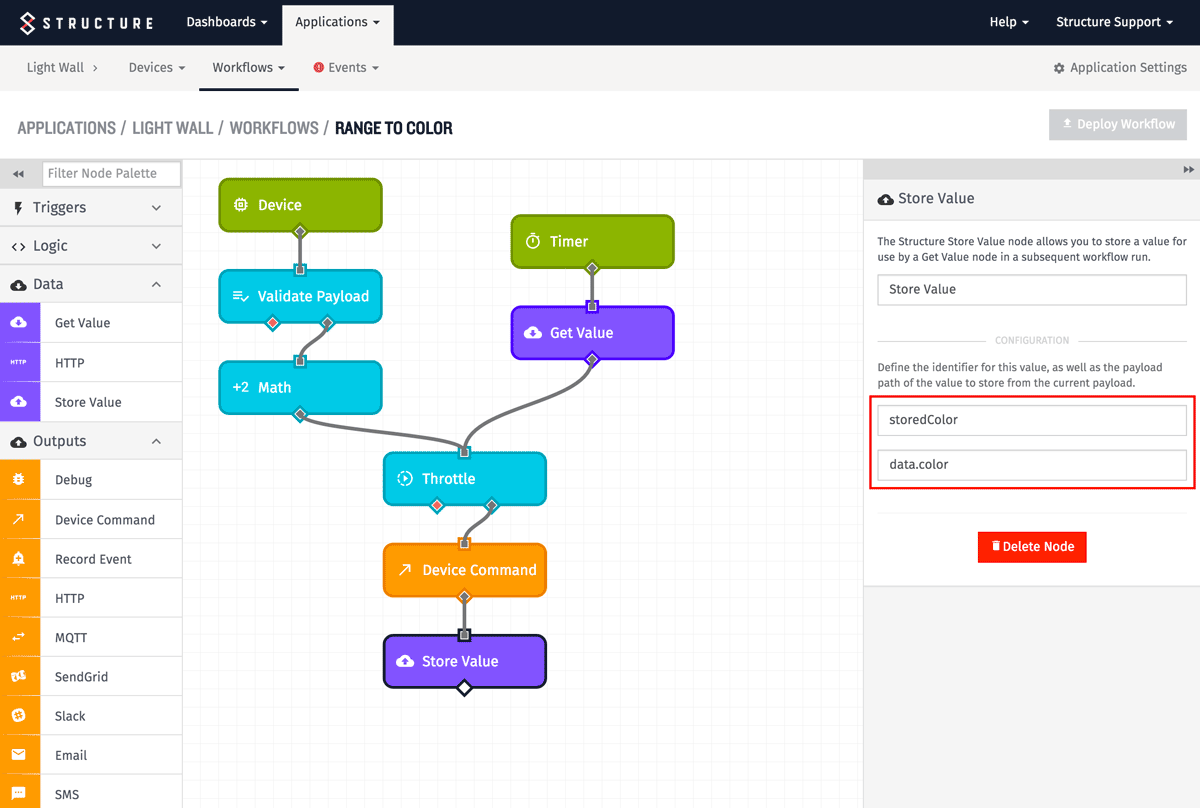
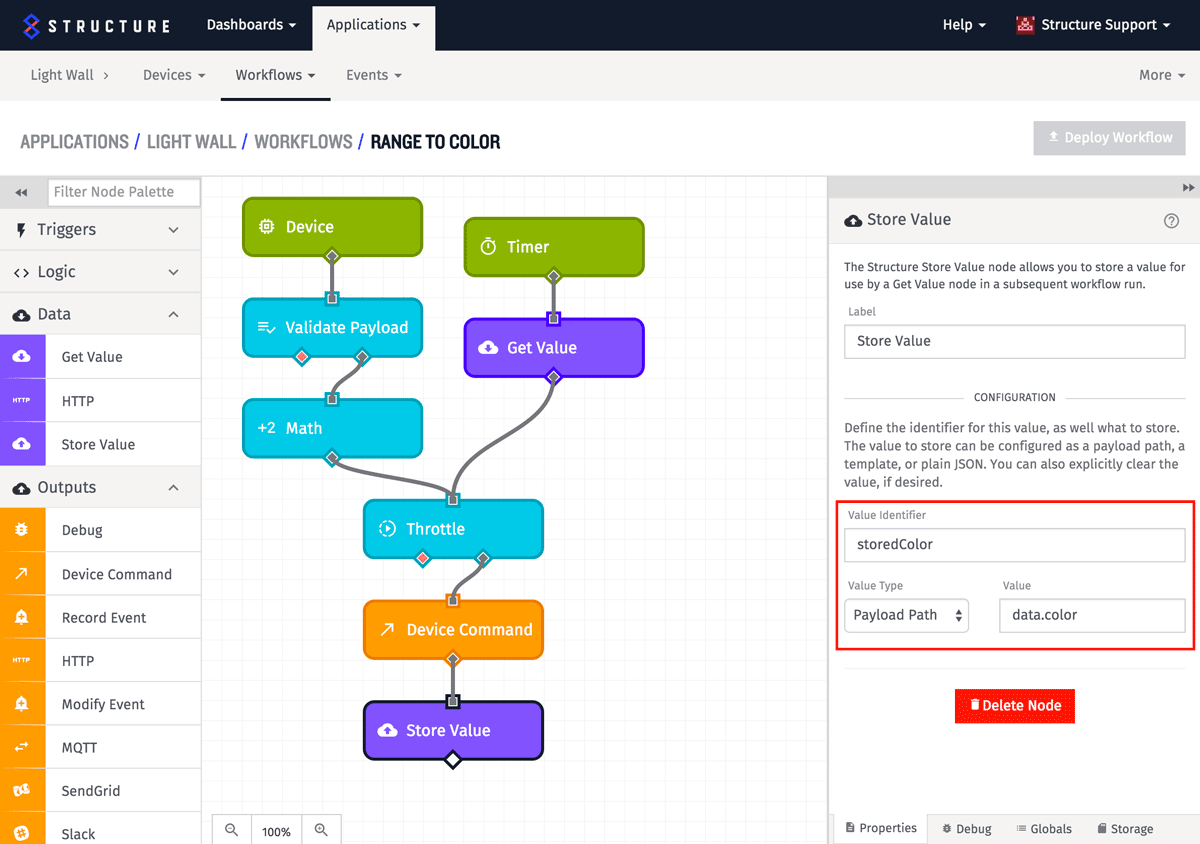
update with new store value abilities

diff --git a/docs/workflows/data/store-value.md b/docs/workflows/data/store-value.md
@@ -6,7 +6,12 @@ The store value node allows a workflow to store a value for retrieval and use in
 
 ## Configuration
 
-There are two configuration properties for the store value node - an identifier and a payload path. The identifier is how the workflow identifies the value being stored.  This identifier is what should be used in subsequent [get value node](/workflows/data/get-value/) nodes that want to load this value in other runs of the workflow.  The payload path is a JSON path which defines where the workflow should pull the value to store from the current payload.  If the payload path does not actually exist in the current payload, the stored value (if there is one) is deleted.
+There are two configuration properties for the store value node - an identifier and a source. The identifier is how the workflow identifies the value being stored.  This identifier is what should be used in subsequent [get value node](/workflows/data/get-value/) nodes that want to load this value in other runs of the workflow.  The source is the value to actually store, and can be one of a couple different options:
+
+*   **Payload Path** is the most common, and the one displayed in the example below.  With this option, the source should be a JSON path defining where in the current payload the value to store will be. If the payload path does not actually exist in the current payload, the currently stored value (if there is one) will be deleted.
+*   **Template** means the value will be evaluated as a standard templatable field, and the result will be the value to store.
+*   **JSON** means the value will be treated as static JSON, and the resulting JSON parsed object will be what is stored.  Using this choice, you can set static complex objects as the value, or even just simple values like true or false.
+*   **Empty** means the node will explicitly clear whatever value is currently stored.
 
 ![Store Value Node Example](/images/workflows/data/store-value-node-example.png "Store Value Node Example")
 
